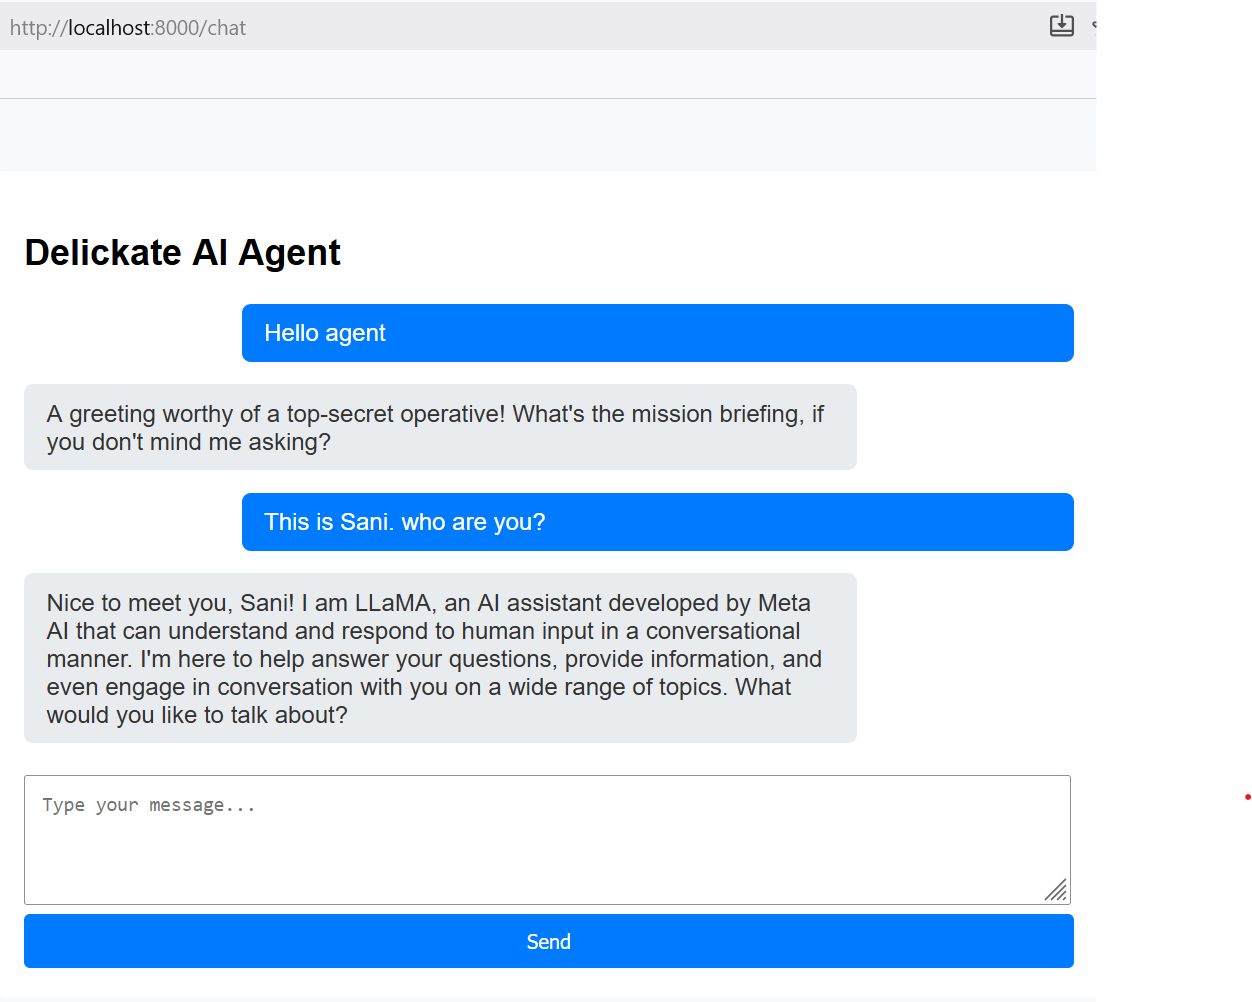
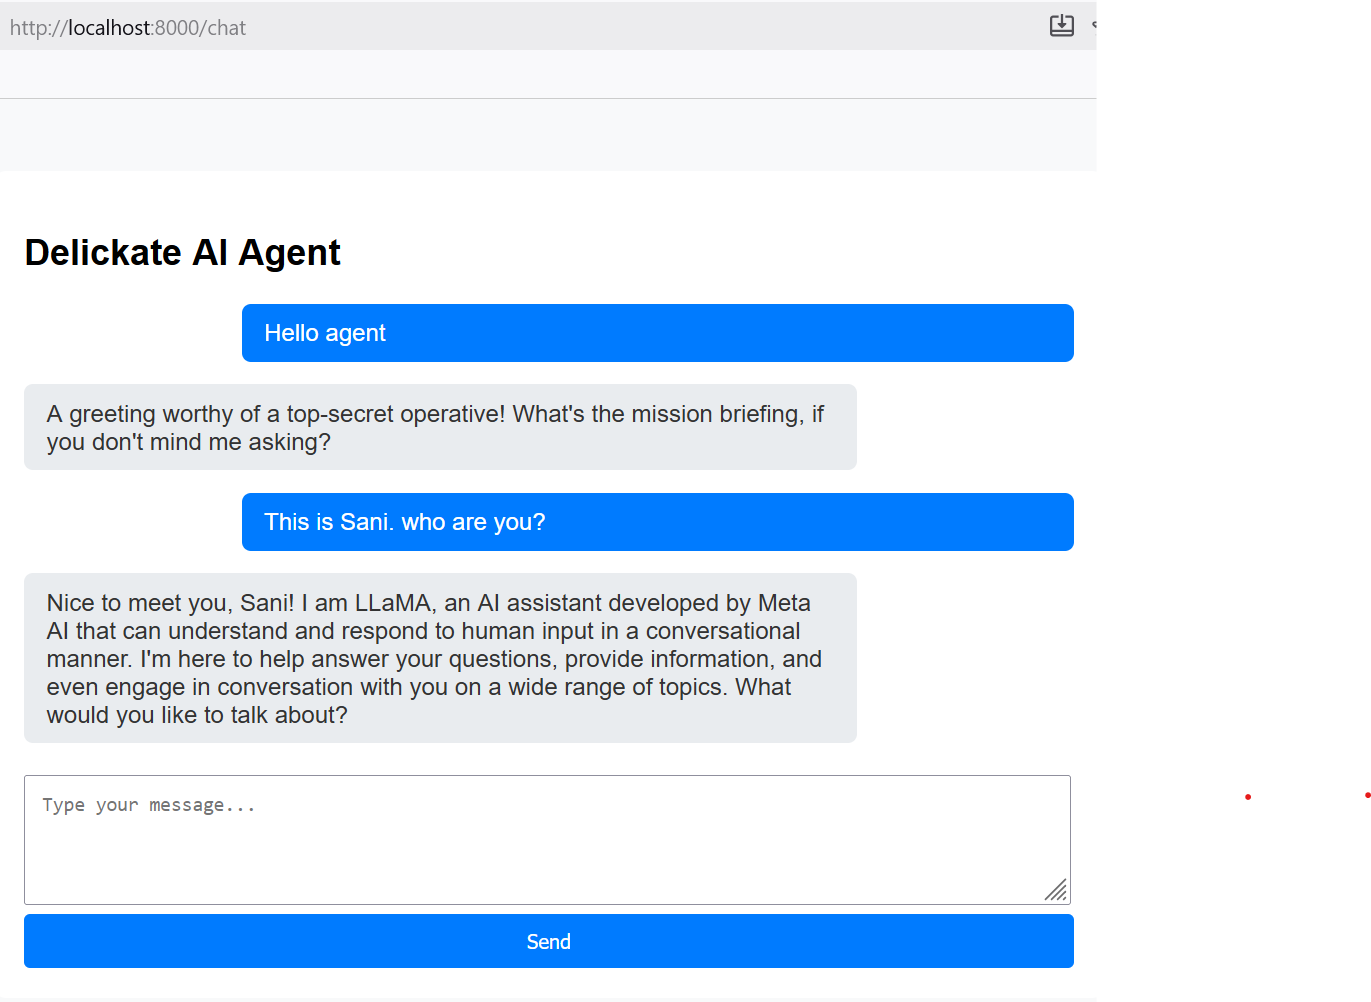
MD file

diff --git a/README.md b/README.md
@@ -24,4 +24,5 @@ You can swap models instantly:
 ```json
 "model": "llama3:8b"
 
-![chatbot](image.png)
+
+![alt text](image.png)
